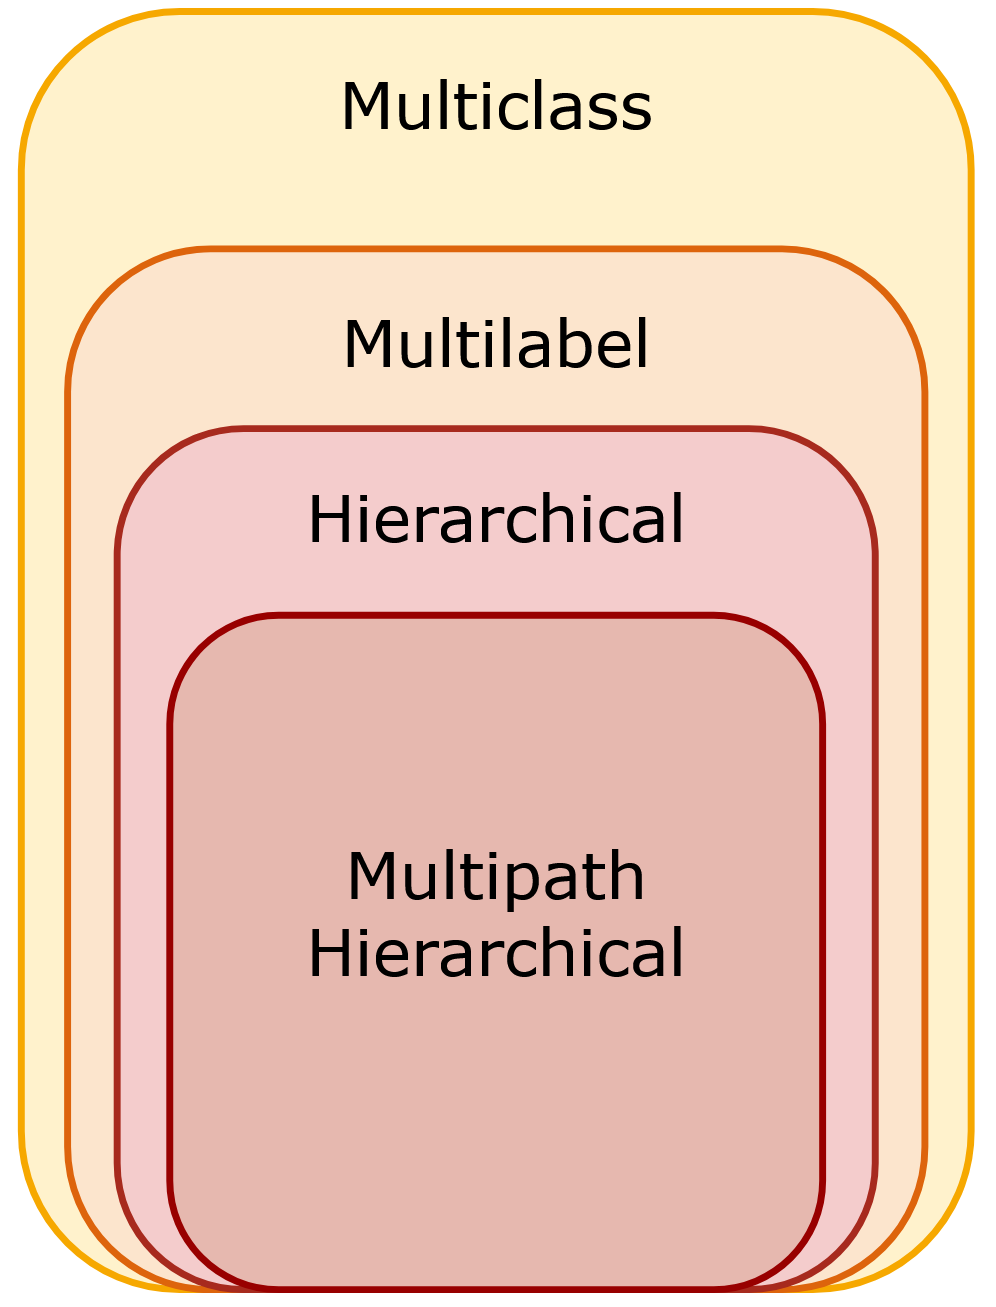
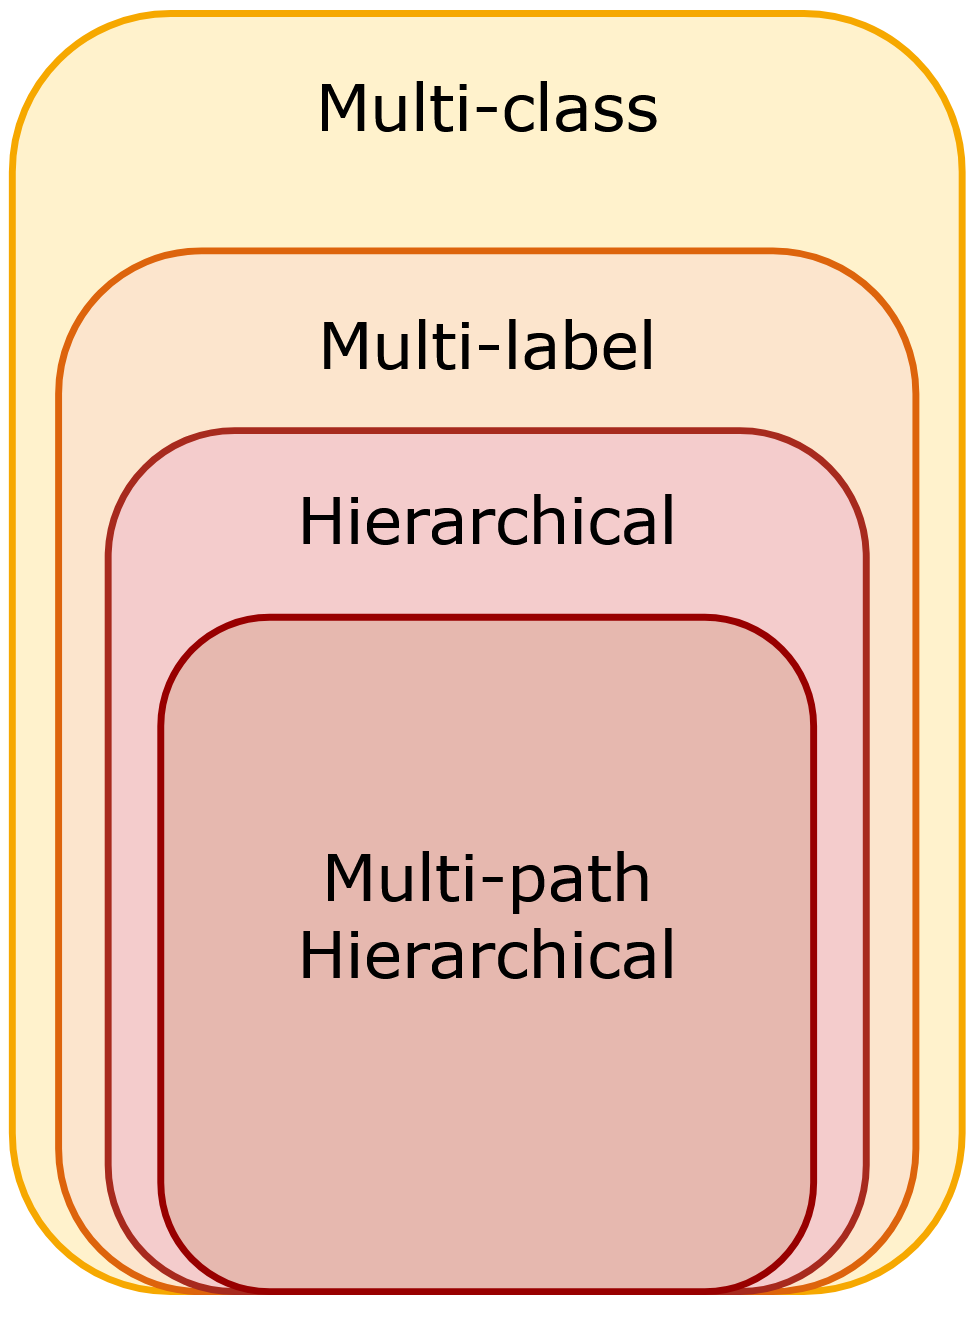
Update multi-path documentation

diff --git a/docs/source/algorithms/multi_label.rst b/docs/source/algorithms/multi_label.rst
@@ -15,39 +15,39 @@ This occurs when the classes are not mutually exclusive.
 For instance, let's consider a problem involving the classification of dog breeds, where we aim to determine the breed of a dog based on available data.
 Without allowing for multiple paths through the dog breed hierarchy, we would have to assign a single label to each sample, which means we have to choose single path through the hierarchy resulting in assigning a dog to a single breed.
 However, this does not always reflect reality, since a dog can be a mix of multiple breeds.
-For example, a dog can be a mix of a dachshund and a Golden Retriever.
-In such a scenario, we aim to assign both the dachshund and Golden Retriever labels to the sample, which requires at least two paths through the hierarchy.
+For example, a dog can be a mix of a Dachshund and a Golden Retriever.
+In such a scenario, we aim to assign both the Dachshund and Golden Retriever labels to the sample, which requires at least two paths through the hierarchy.
 The following figure illustrates this example.
 
 .. _example_dog_breed_hierarchy:
 
 .. figure:: ../algorithms/hc_dog_breed_hierarchy.png
    :align: center
-   :width: 90%
+   :width: 80%
 
-   An example image of a dog that is a mix of a dachshund and a Golden Retriever, thereby requiring multiple paths through the hierarchy for correct classification.
+   An example image of a dog that is a mix of a Dachshund and a Golden Retriever, thereby requiring multiple paths through the hierarchy for correct classification.
 
-Another example in which multi-path hierarchical classification is useful, is document classification, in which we aim to classify a document based on its content.
-The categories can be hierarchical in nature, such as classifying documents into broad topics like "Technology", "Sports", and "Politics", which further have subcategories like "Artificial Intelligence", "Football", and "International Relations".
-A document can belong to multiple categories at the same level of the hierarchy, for example a text that deals with the influence of advancements in AI on International Relations.
+Another multi-path hierarchical classification example, is document classification, in which we aim to classify a document based on its content.
+The categories are often hierarchical in nature, such as classifying documents into broad topics like "Technology", "Sports", and "Politics", which further have subcategories like "Artificial Intelligence", "Football", and "International Relations".
+A document can belong to multiple categories, for example a text that deals with the influence of advancements in AI on International Relations, which can only be correctly classified by multiple paths through the hierarchy.
 
 ++++++++++++++++++++++++++++++++++++++++
 Background - Classification Terminology
 ++++++++++++++++++++++++++++++++++++++++
-To explain what we mean with multipath hierarchical classification, we first need to define some terminology.
+To explain what we mean with multi-path hierarchical classification, we first need to define some terminology.
 
 .. figure:: ../algorithms/hc_background.png
    :align: left
    :figwidth: 30%
 
-   The set of classification problems from most generic (mutliclass) to most specific (multi-path hierarchical classification).
+   The set of classification problems from most generic (multi-class) to most specific (multi-path hierarchical classification).
 
 In a multi-class classification problem, a sample can be assigned to one class among several options.
 In a multi-label classification problem, a sample can be associated with multiple classes simultaneously.
 A hierarchical classification problem is a type of multi-label classification problem where classes are organized in a hierarchical structure represented as a graph, such as a tree or directed acyclic graph (DAG).
 In this graph, the nodes correspond to the classes to be predicted.
 If not specified, it is usually assumed that at each level of the hierarchy, a sample can only belong to one class.
-This means that a sample, can only be associated with a single path through the hierarchy, starting from the root node and ending at a leave node.
+This means that a sample can only be associated with a single path through the hierarchy, starting from the root node and ending at a leave node.
 In multi-path hierarchical classification, this restriction is lifted.
 A sample can belong to multiple classes at the same level of the hierarchy, i.e., a sample can be classified by multiple paths through the hierarchy.
 
@@ -62,12 +62,13 @@ However, since there is no sklearn specific multi-label hierarchical format, HiC
 The HiClass target format extends the non-multi-label hierarchical classification format by adding a new dimension to the 2-dimensional array which captures the different paths through the hierarchy.
 
 .. figure:: ../algorithms/hc_format.png
-   :align: left
-   :figwidth: 40%
+   :align: center
+   :width: 80%
 
    HiClass multi-path hierarchical classification format extension for samples classified by the dog breed hierarchy.
 
-|
+This is implemented as a nested list of lists, in which the last dimension specifies a path through the hierarchy.
+
 .. code-block:: python
 
    y = [
@@ -76,9 +77,9 @@ The HiClass target format extends the non-multi-label hierarchical classificatio
    ]
 
 Important to note here is that we specify the whole list of nodes from the root to the most specific nodes for each path.
-Even in cases in which only the leave nodes are different, we still need to specify the whole path.
+Even in cases in which only the leave nodes are different we still need to specify the whole path.
 For example, if sample 1 would belong to the Labrador class instead of the Dachshund class, we still need to specify the whole path from the root to the Golden Retriever and Labrador nodes, which would be :code:`[["Retriever", "Golden Retriever"], ["Retriever", "Labrador"]]`.
-This is a consequence of requiring a fixed dimension for the target array, which is required by using Numpy arrays for implementation.
+This is a consequence using Numpy arrays for the implementation which require fixed dimensions for the target array.
 Furthermore, by explicitly specifying the whole path form root to leave nodes, the target format is readable and easy to comprehend and also works well for hierarchies that are not trees, but DAGs.
 
 
@@ -86,9 +87,8 @@ Furthermore, by explicitly specifying the whole path form root to leave nodes, t
 Fitting the Classifiers
 ++++++++++++++++++++++++++
 In this section we outline how fitting of the local classifiers is implemented in HiClass for multi-path hierarchical classification.
-.. For background information on the classifier strategies, please refer to the :ref:`hiclass_classifier_strategies` section.
-Here we only focus on the multi-label hierarchical classification case for the :class:`hiclass.MultiLabelLocalClassifierPerNode` and :class:`hiclass.MultiLabelLocalClassifierPerNode` classifiers.
-For a recap how the strategies work, refer to the :ref:`Algorithms<algorithms>` section.
+Here we only focus on the multi-path hierarchical classification case for the :class:`hiclass.MultiLabelLocalClassifierPerNode` and :class:`hiclass.MultiLabelLocalClassifierPerNode` classifiers.
+For a recap on how the strategies work, visit the :ref:`Algorithms<algorithms>` section.
 
 Local Classifier Per Node
 -------------------------
@@ -103,8 +103,8 @@ It is also assigned to the positive class for the Hound classifier, since it doe
 
 Local Classifier Per Node
 -------------------------
-The :class:`hiclass.MultiLabelLocalClassifierPerParentNode` trains a true multi-class classifier for each non-leaf/parent node, i.e., a node that has children in the hierarchy.
-The classes are the children of the node.
+The :class:`hiclass.MultiLabelLocalClassifierPerParentNode` trains a multi-class classifier for each non-leaf/parent node, i.e., a node that has children in the hierarchy.
+The classes to be predicted are the children of the node.
 For the multi-label case this means, that a sample can belong to multiple children of a node.
 Internally, this is implemented by duplicating the sample and assigning each duplicate to one of the children of the node.
 Thereby the classifier itself does not need to support the sklearn multi-label format and can be a standard sklearn classifier.
@@ -118,16 +118,14 @@ In the single path case, the data sample is assigned the label with the highest 
 This leads to only a single path through the hierarchy for each data sample.
 
 .. figure:: ../algorithms/hc_prediction.png
-   :align: left
-   :figwidth: 60%
+   :align: center
+   :figwidth: 80%
 
    Predicting the labels for a sample using the top-down prediction strategy. Numeric values in red are the predicted probabilities for each node.
 
-In the example given on the left, the sample would be assigned the label :code:`["Retriever", "Golden Retriever"]`, since this is the path with the highest probability starting at the root node.
+In the example given above, the sample would be assigned the label :code:`["Retriever", "Golden Retriever"]`, since this is the path with the highest probability starting at the root node.
 In contrast, when we want to allow for multiple paths through the hierarchy, we need to specify a criterion different from taking the highest probability to assign labels to data samples.
 HiClass implements two strategies for this: Threshold and Tolerance.
-
-|
 
 Theshold
 -------------------------
@@ -140,7 +138,7 @@ The threshold :math:`\lambda \in [0, 1]` is a parameter that is passed to the pr
 In the example given above, if we set :math:`\lambda = 0.6`, we would assign the label :code:`[["Retriever", "Golden Retriever"], ["Hound", "Dachshund"]]` to the sample, since the probabilities of the assigned nodes are greater than 0.6.
 While this strategy is simple to implement and understand, it has the disadvantage that it is not possible to specify a different threshold for each node in the hierarchy, requiring a global threshold for all nodes.
 Furthermore, with the top down-prediction strategy, if the predicted probability is below the threshold for a node, the prediction stops regardless of the probabilities of the nodes further down the hierarchy.
-For example, if :math:`\lambda = 0.85`, no label would be assigned to the sample since the probabilities for Retriever and Hound class are below the threshold value and traversing the hierarchy stops.
+For example, if :math:`\lambda = 0.85`, no label would be assigned to the sample since the probabilities for the Retriever and Hound class are below the threshold value and traversing the hierarchy stops.
 
 Tolerance
 -------------------------
@@ -165,11 +163,11 @@ Here we give an example of the hierarchical precision and recall for the multi-p
 
 .. figure:: ../algorithms/hc_metrics.png
    :align: center
-   :width: 90%
+   :width: 100%
 
 Note, that when calculating the hierarchical precision and recall for multiple samples, we can define micro and macro average.
 The micro precision/recall all predictions are considered together, regardless of the sample.
-In contrast, in the macro precision, we first calculate the hierarchical precision of a sample and then aggregate the results.
+In contrast, in the macro precision/recall, we first calculate the hierarchical precision/recall of a sample and then aggregate the results.
 Since samples can have differing numbers of labels assigned to them, micro and macro average can lead to different results.
 
 
